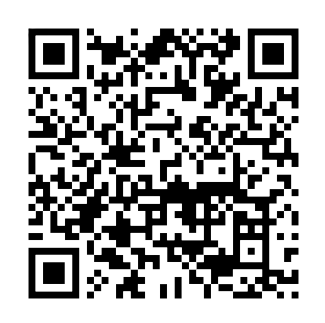
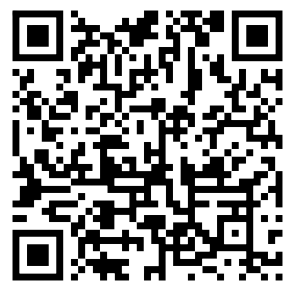
update qrcode, facebook like

diff --git a/index.html b/index.html
@@ -194,7 +194,7 @@
         <h1>Give me a Like <i class="material-icons" style="font-size:34px">thumb_up</i>
         </h1>
         <center>
-            <iframe src="https://www.facebook.com/plugins/like.php?href=https%3A%2F%2Fbarifergan.github.io%2FthirdAgeWebsite%2F&width=174&layout=button_count&action=like&size=large&share=true&height=46&appId" width="174" height="46" style="border:none;overflow:hidden"
+            <iframe src="https://www.facebook.com/plugins/like.php?href=https%3A%2F%2Fweb-development-environments-2021.github.io%2F312200132%2F&width=150&layout=button_count&action=like&size=small&share=true&height=46&appId" width="150" height="46" style="border:none;overflow:hidden"
                 scrolling="no" frameborder="0" allowfullscreen="true" allow="autoplay; clipboard-write; encrypted-media; picture-in-picture; web-share"></iframe>
         </center>
         <br/>
